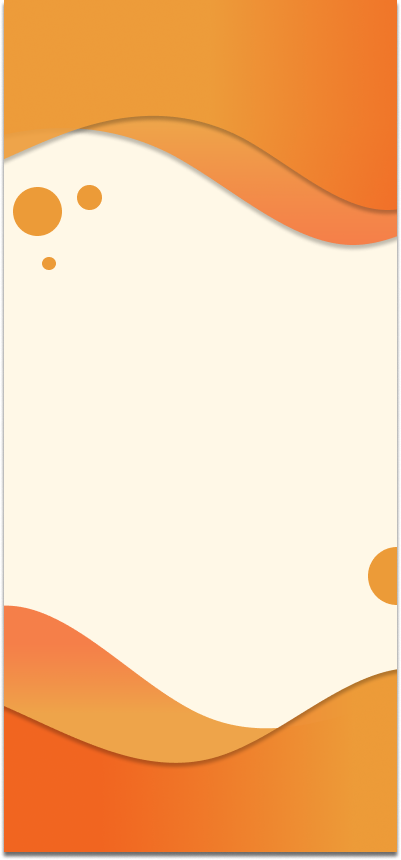
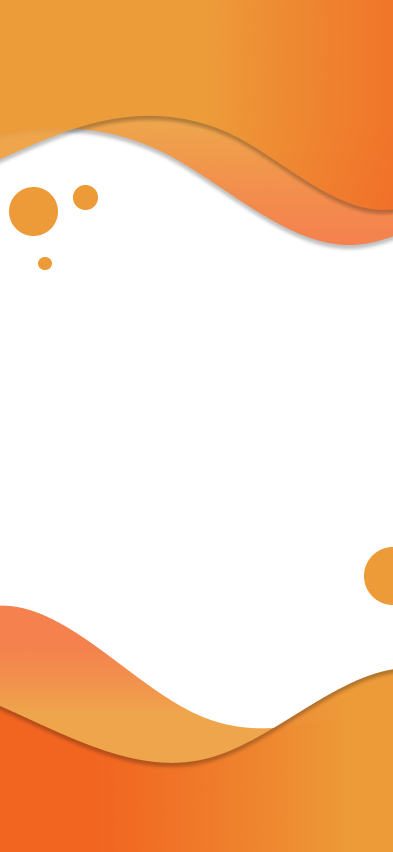
learners

diff --git a/lib/user_onboarding/login_page.dart b/lib/user_onboarding/login_page.dart
@@ -1,4 +1,5 @@
 import 'package:flutter/material.dart';
+import 'package:fluttertoast/fluttertoast.dart';
 import 'package:learners/home_page.dart';
 import 'package:learners/user_onboarding/registration.dart';
 
@@ -33,7 +34,7 @@ class _loginState extends State<login> {
         width: MediaQuery.of(context).size.width,
         decoration: BoxDecoration(
           image: DecorationImage(
-            image: AssetImage('assets/images/login.png'),
+            image: AssetImage('assets/images/login1.png'),
             fit: BoxFit.cover,
           ),
         ),
@@ -52,23 +53,6 @@ class _loginState extends State<login> {
                 SizedBox(height: 6,),
                 Container(
                   margin: EdgeInsets.only(left: 20, right: 20),
-               /*   padding: EdgeInsets.only(
-                    left: MediaQuery.of(context).size.width/2 - 50,
-                    right: MediaQuery.of(context).size.width/2 - 50,
-                    top: MediaQuery.of(context).size.height/4,
-                    bottom: MediaQuery.of(context).size.height/4,
-                  ),*/
-                  /*decoration: BoxDecoration(
-                    borderRadius: BorderRadius.circular(12.0),
-                    color: Colors.white,
-                    boxShadow: [
-                      BoxShadow(
-                        color: Colors.black.withOpacity(0.2),
-                        offset: Offset(0, 4),
-                        blurRadius: 10,
-                      ),
-                    ],
-                  ),*/
                   child: Column(
                     children: [
                       Container(
@@ -123,7 +107,7 @@ class _loginState extends State<login> {
                         alignment: Alignment.centerRight,
                         child: TextButton(
                           onPressed: () {
-                            Navigator.pushReplacement(context, MaterialPageRoute(builder: (context) => registration()));
+                            Fluttertoast.showToast(msg: 'Not implemented yet', gravity: ToastGravity.TOP);
                           },
                           child: Text(
                             'Forgot password',

diff --git a/lib/home_page.dart b/lib/home_page.dart
@@ -1,17 +1,68 @@
 import 'package:flutter/material.dart';
+import 'package:learners/home_contents.dart';
 
-class home_page extends StatelessWidget {
+class home_page extends StatefulWidget {
   const home_page({super.key});
+
+  @override
+  _home_pageState createState() => _home_pageState();
+}
+
+class _home_pageState extends State<home_page> {
+  int _selectedIndex = 0;
+
+  static const List<Widget> _widgetOptions = <Widget>[
+    home_contents(),
+    Text('Dashboard'),
+    Text('AI help'),
+    Text('Profile Page'), // Added fourth page here
+  ];
+
+  void _onItemTapped(int index) {
+    setState(() {
+      _selectedIndex = index;
+    });
+  }
 
   @override
   Widget build(BuildContext context) {
     return Scaffold(
-      appBar: AppBar(
-        title: Text("hello"),
-      ),
       body: Center(
-          child: Text("hello there internet user"),
+        child: _widgetOptions.elementAt(_selectedIndex),
+      ),
+      bottomNavigationBar: new Theme(
+        data: Theme.of(context).copyWith(
+            canvasColor: Colors.orange[700],
+        ),
+        child: ClipRRect(
+          borderRadius: BorderRadius.vertical(top: Radius.circular(8)),
+          child: BottomNavigationBar(
+            items: const <BottomNavigationBarItem>[
+              BottomNavigationBarItem(
+                icon: Icon(Icons.home),
+                label: 'Home',
+              ),
+              BottomNavigationBarItem(
+                icon: Icon(Icons.dashboard_customize_sharp),
+                label: 'Dashboard',
+              ),
+              BottomNavigationBarItem(
+                icon: Icon(Icons.mark_unread_chat_alt_outlined),
+                label: 'Chat',
+              ),
+              BottomNavigationBarItem(
+                icon: Icon(Icons.person),
+                label: 'Profile',
+              ),
+            ],
+            currentIndex: _selectedIndex,
+            selectedItemColor: Colors.white,
+            unselectedItemColor: Colors.black87,
+            onTap: _onItemTapped,
+          ),
+        ),
       ),
     );
   }
 }
+

diff --git a/lib/home_contents.dart b/lib/home_contents.dart
@@ -1,0 +1,31 @@
+import 'package:flutter/cupertino.dart';
+import 'package:flutter/material.dart';
+
+class home_contents extends StatefulWidget {
+  const home_contents({super.key});
+
+  @override
+  State<home_contents> createState() => _home_contentsState();
+}
+
+class _home_contentsState extends State<home_contents> {
+  @override
+  Widget build(BuildContext context) {
+    return Scaffold(
+      appBar: AppBar(
+        title: Text(
+          "Learners",
+          style: TextStyle(
+            color: Colors.black87,
+            fontWeight: FontWeight.bold,
+            fontSize: 28,
+            fontFamily: "shadow"
+          ),
+        ),
+        backgroundColor: Colors.white,
+        shadowColor: Colors.transparent,
+      ),
+      body: Center(child: Text("homepage")),
+    );
+  }
+}

diff --git a/lib/controller/network_controller.dart b/lib/controller/network_controller.dart
@@ -29,8 +29,8 @@ class NetworkController extends GetxController {
               onWillPop: () async => false, // Disable back button
               child: AlertDialog(
                 title: Image.asset(
-                  'assets/icon/logo.png',
-                  fit: BoxFit.contain,
+                  'assets/icon/logo1.png',
+                  fit: BoxFit.cover,
                   height: 50,
                 ),
                 content: Text('Please connect to the internet.....',
